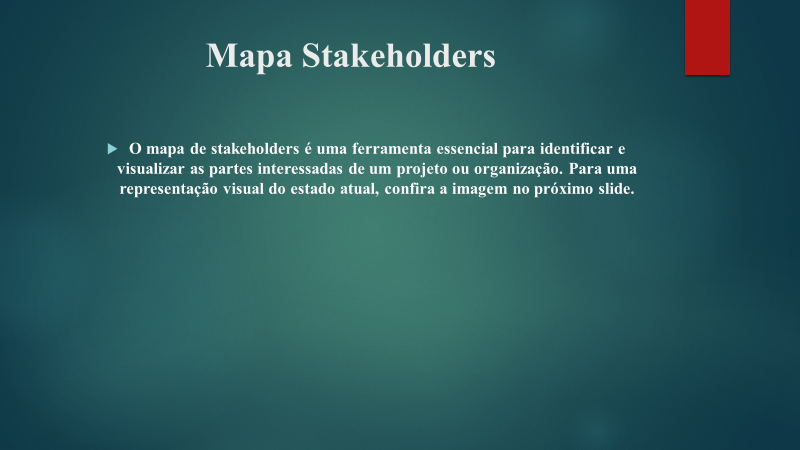
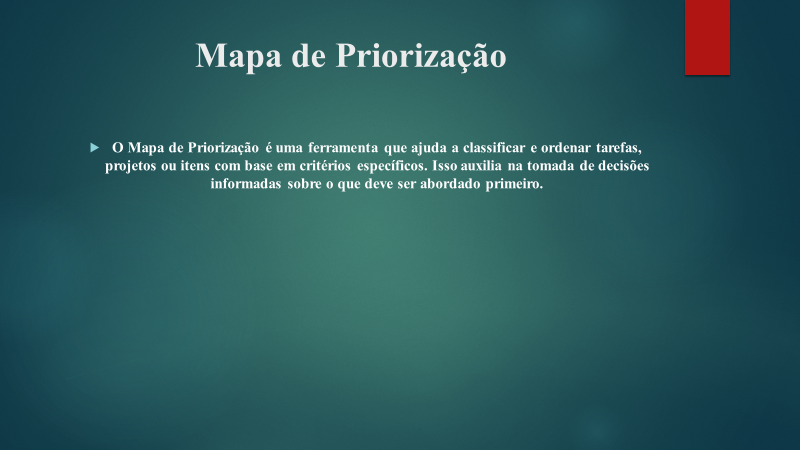
subindo correto

Changed region(s): [[0.0938, 0.3111, 0.8125, 0.4356], [0.25, 0.0933, 0.6562, 0.1867]]

diff --git a/docs/03 - apresentação/README.md b/docs/03 - apresentação/README.md
@@ -107,4 +107,6 @@ SLIDE 20
 
 SLIDE 21
 ---
-![image-21](./imagens/image-22.png)
+![image-21](./imagens/image-21.png)
+
+
